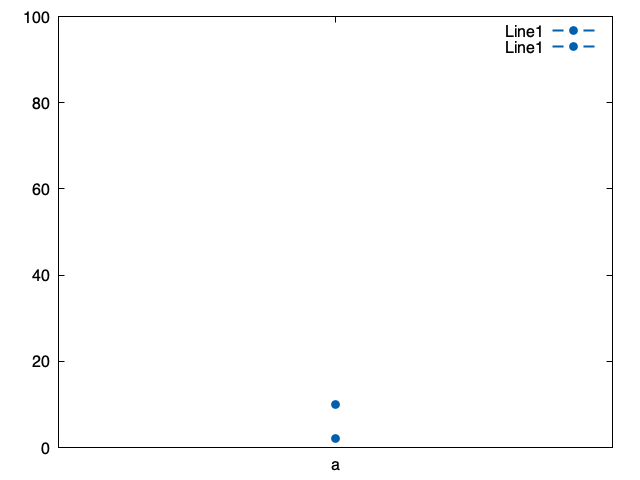
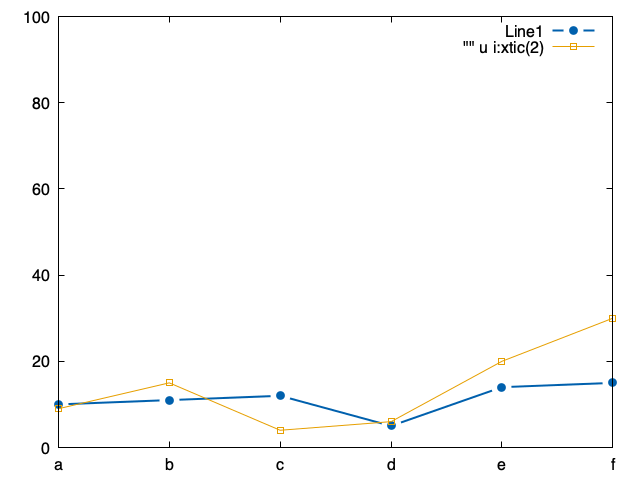
update gnuplot

diff --git a/main.py b/main.py
@@ -1,5 +1,14 @@
 import argparse
 import json
+import heap
+from pygnuplot import  gnuplot
+import pandas as pd
+
+def get_super(x):
+    normal = "ABCDEFGHIJKLMNOPQRSTUVWXYZabcdefghijklmnopqrstuvwxyz0123456789+-=()"
+    super_s = "ᴬᴮᶜᴰᴱᶠᴳᴴᴵᴶᴷᴸᴹᴺᴼᴾQᴿˢᵀᵁⱽᵂˣʸᶻᵃᵇᶜᵈᵉᶠᵍʰᶦʲᵏˡᵐⁿᵒᵖ۹ʳˢᵗᵘᵛʷˣʸᶻ⁰¹²³⁴⁵⁶⁷⁸⁹⁺⁻⁼⁽⁾"
+    res = x.maketrans(''.join(normal), ''.join(super_s))
+    return x.translate(res)
 
 parser = argparse.ArgumentParser()
 parser.add_argument("--type", "-t", choices=['time', 'comparisons', 'assignments'], required=True)
@@ -18,3 +27,67 @@ def collectInputData(files_names):
     return inputData
 
 inputData = collectInputData(files_names)
+
+def collectOutputData(inputData, type):
+    outputData = {
+        "labels": [],
+        "ascending": [],
+        "random_order": [],
+        "descending": [],
+    }
+
+    labelsArray = []
+
+    for i in range(3):
+        label = "10" + get_super(str(i+3))
+        labelsArray.append(label)
+    
+    for i in range(8):
+        label = str(i+2) + " * 10" + get_super("5")
+        labelsArray.append(label)
+
+    label = "10" + get_super("6")
+    labelsArray.append(label)
+
+    count = 0
+    for input in inputData:
+        outputData['labels'].append(labelsArray[count])
+        outputData['ascending'].append(heap.heapSort(input['ascending'], type))
+        outputData['random_order'].append(heap.heapSort(input['random_order'], type))
+        outputData['descending'].append(heap.heapSort(input['descending'], type))
+        count += 1
+    return outputData
+
+outputData = collectOutputData(inputData, graph_type)
+
+def plotGraph(outputData, type):
+    data_frame = pd.DataFrame(data=outputData)
+    output_filename = '"heap-' + type + '.png"'
+    ylabel = "'"
+    if type == 'time':
+        title = "'Gráfico do Tempo de Execução'"
+        ylabel = "'Tempo (s)'"
+    elif type == 'comparisons':
+        title = "'Gráfico de Quantidade de Comparações'"
+        ylabel = "'Comparações'"
+    elif type == 'assignments':
+        title = "'Gráfico de Quantidade de Atribuições'"
+        ylabel = "'Atribuições'"
+
+    graph = gnuplot.Gnuplot()
+
+    graph.set(terminal = 'pngcairo', output = output_filename, title = title, ylabel = ylabel, xlabel = "'Tamanho da Entrada'")
+    graph.set(style="line 1 lc rgb '#ff0000' lt 1 lw 2 pt 7 pi -1 ps 1.125")
+    graph.set(style="line 2 lc rgb '#00ff00' lt 2 lw 2 pt 7 pi -1 ps 1.125")
+    graph.set(style="line 3 lc rgb '#0000ff' lt 3 lw 2 pt 7 pi -1 ps 1.125")
+    graph.set(ytics=' 0.5')
+
+
+
+    graph.set(pointintervalbox='3')
+    print(data_frame)
+    graph.plot_data(data_frame, "u 3:xtic(2) title 'Melhor Caso' with linespoints ls 1",
+                    "u 4:xtic(2) title 'Caso Médio' with linespoints ls 2",
+                    "u 5:xtic(2) title 'Pior Caso' with linespoints ls 3")
+
+plotGraph(outputData, graph_type)

diff --git a/heap.py b/heap.py
@@ -1,20 +1,8 @@
-# from pygnuplot import  gnuplot
 import time
-import json
-import argparse
-
-parser = argparse.ArgumentParser()                                               
-parser.add_argument("--file", "-f", type=str, required=True)
-args = parser.parse_args()
-filename = args.file
-
-file = open(filename)
-data = json.load(file)
 
 comparisons = 0
 assignment = 0
 
-start = time.time()
 
 def heapify(arr, n, i):
     largest = i
@@ -40,7 +28,8 @@ def heapify(arr, n, i):
         heapify(arr, n, largest)
     
 
-def heapSort(arr):
+def heapSort(arr, type):
+    start = time.time()
     n = len(arr)
  
     for i in range(n // 2 - 1, -1, -1):
@@ -50,15 +39,12 @@ def heapSort(arr):
         (arr[i], arr[0]) = (arr[0], arr[i]) 
         heapify(arr, i, 0)
 
-arr = data['ascending']
+    end = time.time()
+    total_time = end - start
 
-heapSort(arr)
-
-end = time.time()
-total_time = end - start
-
-print(arr)
-print(comparisons)
-print(assignment)
-print(total_time)
-
+    if type == 'time':
+        return total_time
+    elif type == 'comparisons':
+        return comparisons
+    elif type == 'assignments':
+        return assignment

diff --git a/teste.py b/teste.py
@@ -150,4 +150,5 @@ g.set(style="line 1 lc rgb '#0060ad' lt 1 lw 2 pt 7 pi -1 ps 1.125")
 g.set(pointintervalbox='3')
 g.set(yrange='[0:100]')
 g.set(style="line 2 lc rgb '#9912ad' lt 1 lw 2 pt 7 pi -1 ps 0.5")
-g.plot_data(df2, " u 3:xtic(2) title 'Line1' with linespoints ls 1", " u 4:xtic(2) title 'Line1' with linespoints ls 1 ")
+# g.plot_data(df2, " u 3:xtic(2) title 'Line1' with linespoints ls 1", " u 4:xtic(2) title 'Line1' with linespoints ls 1 ")
+g.plot_data(df, "u 3:xtic(2) title 'Line1' with linespoints ls 1, for [i=4:4] \"\" u i:xtic(2) with linespoints ls i")
